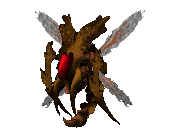
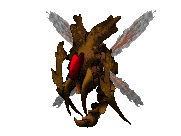
enemy death and enemy/player collision

diff --git a/src/scene.cpp b/src/scene.cpp
@@ -43,21 +43,30 @@ void scene_update(float delta) {
             });
         } else if (plane.type == PLANE_TYPE_ENEMY) {
             enemy_bullet_holes.push_back(EnemyBulletHole(player.raycast_result.point + (plane.normal * 0.05f), plane.normal));
+            enemies[plane.id].take_damage(1);
         }
     }
 
-    for (Enemy& enemy : enemies) {
-        enemy.update(delta);
+    std::vector<unsigned int> indices_to_remove;
+    for (unsigned int i = 0; i < enemies.size(); i++) {
+        enemies[i].update(delta);
+        if (enemies[i].is_dead) {
+            indices_to_remove.push_back(i);
+        }
     }
+    for (unsigned int index : indices_to_remove) {
+        raycast_planes.erase(raycast_planes.begin() + enemies[index].hurtbox_raycast_plane);
+        enemies.erase(enemies.begin() + index);
+    }
+    indices_to_remove.clear();
 
-    std::vector<unsigned int> finished_enemy_bullet_holes;
     for (unsigned int i = 0; i < enemy_bullet_holes.size(); i++) {
         enemy_bullet_holes[i].update(delta);
         if (enemy_bullet_holes[i].animation.is_finished) {
-            finished_enemy_bullet_holes.push_back(i);
+            indices_to_remove.push_back(i);
         }
     }
-    for (unsigned int index : finished_enemy_bullet_holes) {
+    for (unsigned int index : indices_to_remove) {
         enemy_bullet_holes.erase(enemy_bullet_holes.begin() + index);
     }
 }
@@ -118,43 +127,57 @@ void scene_move_and_slide(glm::vec3* position, glm::vec3* velocity, float delta)
         collided = false;
         attempts++;
 
+        std::vector<glm::vec2> wall_a;
+        std::vector<glm::vec2> wall_b;
+        std::vector<glm::vec3> wall_normal;
         for (Sector* sector : nearby_sectors) {
             for (unsigned int wall = 0; wall < sector->vertices.size(); wall++) {
                 if (!sector->walls[wall].exists) {
                     continue;
                 }
 
-                glm::vec2 velocity2d = glm::vec2(actual_velocity.x, actual_velocity.z);
-                glm::vec2 predicted_origin2d = origin2d + velocity2d;
-
-                glm::vec2 wallv = sector->vertices[(wall + 1) % sector->vertices.size()] - sector->vertices[wall];
-                glm::vec2 f = sector->vertices[wall] - predicted_origin2d;
-                float a = glm::dot(wallv, wallv);
-                float b = 2 * glm::dot(f, wallv);
-                float c = glm::dot(f, f) - 0.25f;
-                float discriminant = (b * b) - (4.0f * a * c);
-
-                if (discriminant < 0.0f) {
-                    continue;
-                }
-
-                discriminant = sqrt(discriminant);
-                float t1 = (-b - discriminant) / (2.0f * a);
-                float t2 = (-b + discriminant) / (2.0f * a);
-
-                if (!(t1 >= 0.0f && t1 <= 1.0f) && !(t2 >= 0.0f && t2 <= 1.0f)) {
-                    continue;
-                }
-
-                glm::vec3 velocity_in_wall_normal_direction = sector->walls[wall].normal * glm::dot(actual_velocity, sector->walls[wall].normal);
-                *velocity -= velocity_in_wall_normal_direction;
-                actual_velocity = actual_velocity - velocity_in_wall_normal_direction;
-                collided = true;
+                wall_a.push_back(sector->vertices[(wall + 1) % sector->vertices.size()]);
+                wall_b.push_back(sector->vertices[wall]);
+                wall_normal.push_back(sector->walls[wall].normal);
             }
         }
-        /*for (Enemy& enemy : enemies) {
-            if (position->y)
-        }*/
+        for (Enemy& enemy : enemies) {
+            RaycastPlane& enemy_plane = raycast_planes[enemy.hurtbox_raycast_plane];
+            if (position->y >= enemy_plane.a.y && position->y <= enemy_plane.d.y) {
+                wall_a.push_back(glm::vec2(enemy_plane.b.x, enemy_plane.b.z));
+                wall_b.push_back(glm::vec2(enemy_plane.a.x, enemy_plane.a.z));
+                wall_normal.push_back(enemy_plane.normal);
+            }
+        }
+
+        for (unsigned int wall_index = 0; wall_index < wall_a.size(); wall_index++) {
+            glm::vec2 velocity2d = glm::vec2(actual_velocity.x, actual_velocity.z);
+            glm::vec2 predicted_origin2d = origin2d + velocity2d;
+
+            glm::vec2 wallv = wall_a[wall_index] - wall_b[wall_index];
+            glm::vec2 f = wall_b[wall_index] - predicted_origin2d;
+            float a = glm::dot(wallv, wallv);
+            float b = 2 * glm::dot(f, wallv);
+            float c = glm::dot(f, f) - 0.25f;
+            float discriminant = (b * b) - (4.0f * a * c);
+
+            if (discriminant < 0.0f) {
+                continue;
+            }
+
+            discriminant = sqrt(discriminant);
+            float t1 = (-b - discriminant) / (2.0f * a);
+            float t2 = (-b + discriminant) / (2.0f * a);
+
+            if (!(t1 >= 0.0f && t1 <= 1.0f) && !(t2 >= 0.0f && t2 <= 1.0f)) {
+                continue;
+            }
+
+            glm::vec3 velocity_in_wall_normal_direction = wall_normal[wall_index] * glm::dot(actual_velocity, wall_normal[wall_index]);
+            *velocity -= velocity_in_wall_normal_direction;
+            actual_velocity = actual_velocity - velocity_in_wall_normal_direction;
+            collided = true;
+        }
     }
 
     if (attempts == 5) {

diff --git a/src/enemy.cpp b/src/enemy.cpp
@@ -10,7 +10,9 @@
 #include <glm/gtc/type_ptr.hpp>
 
 enum EnemyAnimation {
-    ENEMY_ANIMATION_IDLE
+    ENEMY_ANIMATION_IDLE,
+    ENEMY_ANIMATION_ATTACK,
+    ENEMY_ANIMATION_DIE
 };
 
 EnemyBulletHole::EnemyBulletHole(glm::vec3 position, glm::vec3 normal) {
@@ -59,6 +61,16 @@ Enemy::Enemy() {
         .end_frame = 2,
         .frame_time = 2.0f,
     });
+    animation.add_animation(ENEMY_ANIMATION_ATTACK, {
+        .start_frame = 16,
+        .end_frame = 18,
+        .frame_time = 2.0f
+    });
+    animation.add_animation(ENEMY_ANIMATION_DIE, {
+        .start_frame = 19,
+        .end_frame = 21,
+        .frame_time = 2.0f
+    });
 
     hurtbox_extents = glm::vec2((100.0f / 2.0f) / (SCREEN_WIDTH / 2), (120.0f / 2.0f) / (SCREEN_HEIGHT / 2));
     glm::vec3 facing_direction = direction;
@@ -73,13 +85,34 @@ Enemy::Enemy() {
         .d = glm::vec3(model * glm::vec4(-hurtbox_extents.x, hurtbox_extents.y, 0.0f, 1.0f)),
         .normal = facing_direction
     });
+
+    health = 3;
+    is_dead = false;
 }
 
 void Enemy::update(float delta) {
+    if (is_dead) {
+        return;
+    }
+
     animation.update(delta);
+    if (animation.animation == ENEMY_ANIMATION_DIE && animation.is_finished) {
+        is_dead = true;
+    }
+}
+
+void Enemy::take_damage(int amount) {
+    health -= amount;
+    if (health <= 0) {
+        animation.set_animation(ENEMY_ANIMATION_DIE);
+    }
 }
 
 void Enemy::render(glm::vec3 player_position) {
+    if (is_dead) {
+        return;
+    }
+
     glUniform2iv(glGetUniformLocation(billboard_shader, "extents"), 1, glm::value_ptr(resource_extents[resource_wasp]));
 
     glm::vec3 facing_direction = glm::normalize(glm::vec3(player_position.x, position.y, player_position.z) - position);
@@ -99,7 +132,13 @@ void Enemy::render(glm::vec3 player_position) {
     flip_h = angle < 0.0f && animation_offset >= 1 && animation_offset <= 3;
 
     glUniform1ui(glGetUniformLocation(billboard_shader, "flip_h"), flip_h);
-    glUniform1ui(glGetUniformLocation(billboard_shader, "frame"), animation.frame + (animation_offset * 3));
+
+    unsigned int animation_frame = animation.frame;
+    if (animation.animation == ENEMY_ANIMATION_IDLE) {
+        animation_frame += animation_offset * 3;
+    }
+
+    glUniform1ui(glGetUniformLocation(billboard_shader, "frame"), animation_frame);
 
     glBindTexture(GL_TEXTURE_2D_ARRAY, resource_wasp);
     glBindVertexArray(quad_vao);

diff --git a/src/enemy.hpp b/src/enemy.hpp
@@ -26,7 +26,11 @@ struct Enemy {
     unsigned int animation_offset;
     bool flip_h;
 
+    int health;
+    bool is_dead;
+
     Enemy();
     void update(float delta);
+    void take_damage(int amount);
     void render(glm::vec3 player_position);
 };

diff --git a/src/resource.cpp b/src/resource.cpp
@@ -26,6 +26,7 @@ unsigned int resource_player_pistol;
 unsigned int resource_bullet_hole;
 unsigned int resource_wasp;
 unsigned int resource_wasp_bullet_hole;
+unsigned int resource_test;
 
 std::map<unsigned int, glm::ivec2> resource_extents;
 
